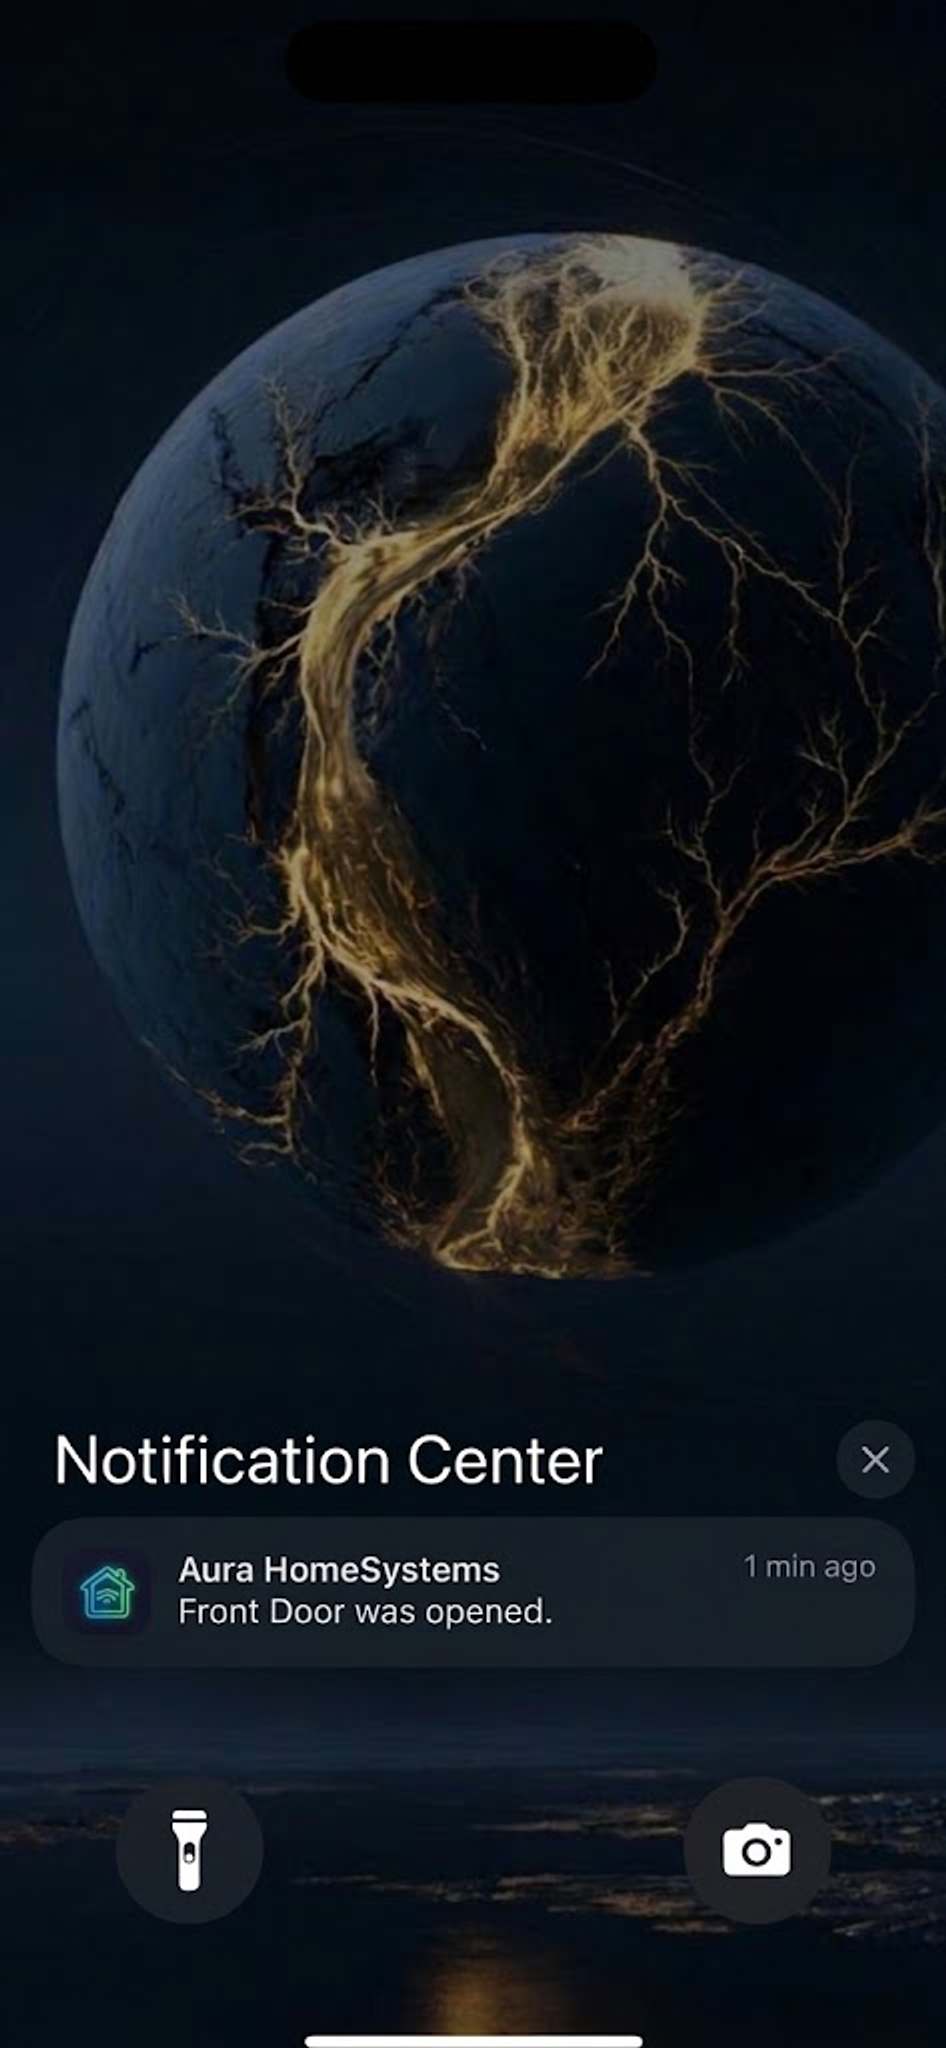
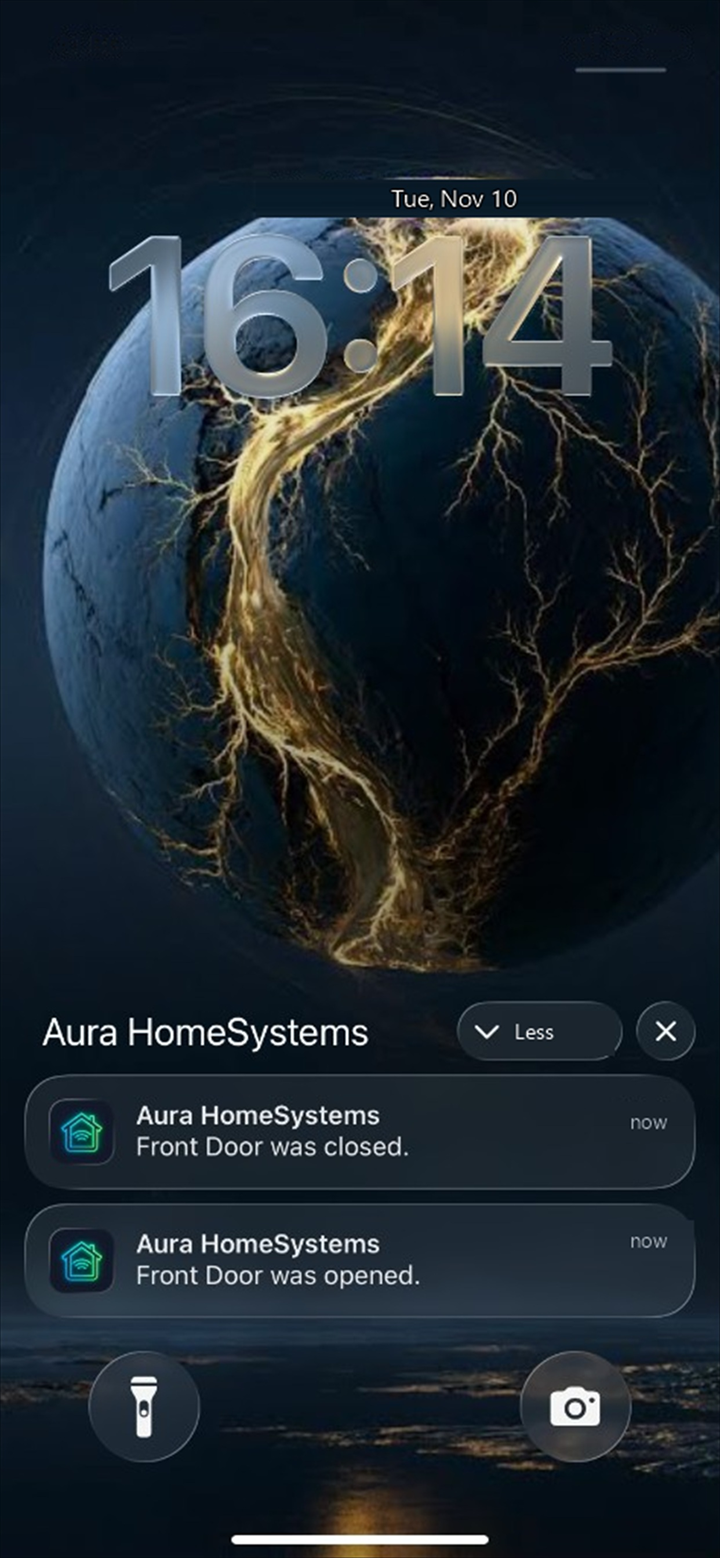
Show the new app screens on the website.

diff --git a/index.html b/index.html
@@ -407,14 +407,14 @@
               <p class="section-subtitle" data-i18n="product.appPreviewLead">The free phone app is where you live with the sensors. You name each door or window, see if it is open or closed, and get a push the moment something opens.</p>
               <div class="app-preview-grid">
                 <figure class="app-shot">
-                  <img src="images/app/push.png" alt="iPhone notification: Front Door was opened" data-i18n-alt="product.appPushAlt" width="1000" height="1106" />
+                  <img src="images/app/push.png" alt="iPhone notification: Front Door was opened" data-i18n-alt="product.appPushAlt" width="720" height="1558" />
                   <figcaption>
                     <strong data-i18n="product.appPushTitle">A push that names the door</strong>
                     <span data-i18n="product.appPushText">When something opens, the phone shows which sensor it was. You do not have to open the app to know.</span>
                   </figcaption>
                 </figure>
                 <figure class="app-shot">
-                  <img src="images/app/sensors.png" alt="Sensor cards showing Front Door and Garage, each closed, with battery and the last update time" data-i18n-alt="product.appSensorsAlt" width="1000" height="1106" />
+                  <img src="images/app/sensors.png" alt="Sensor cards showing Front Door and Garage, each closed, with battery and the last update time" data-i18n-alt="product.appSensorsAlt" width="473" height="1024" />
                   <figcaption>
                     <strong data-i18n="product.appSensorsTitle">Each sensor on its own card</strong>
                     <span data-i18n="product.appSensorsText">Name, icon, battery and Open or Closed. The time is the last report from that sensor.</span>
@@ -428,7 +428,7 @@
                   </figcaption>
                 </figure>
                 <figure class="app-shot">
-                  <img src="images/app/mode.png" alt="Away mode switched on, with the siren enabled and ready" data-i18n-alt="product.appModeAlt" width="1000" height="1106" />
+                  <img src="images/app/mode.png" alt="Home mode, with the siren enabled and ready" data-i18n-alt="product.appModeAlt" width="473" height="1024" />
                   <figcaption>
                     <strong data-i18n="product.appModeTitle">Home, Away and the siren</strong>
                     <span data-i18n="product.appModeText">Away turns monitoring and phone alerts on. Home turns them off. If you have a siren, you enable it or stop it from this same screen.</span>

diff --git a/translations.js b/translations.js
@@ -92,7 +92,7 @@ const translations = {
             appHistoryAlt: "History list of Front Door and Garage openings and closings with the time of each event",
             appModeTitle: "Home, Away and the siren",
             appModeText: "Away turns monitoring and phone alerts on. Home turns them off. If you have a siren, you enable it or stop it from this same screen.",
-            appModeAlt: "Away mode switched on, with the siren enabled and ready",
+            appModeAlt: "Home mode, with the siren enabled and ready",
             appPushTitle: "A push that names the door",
             appPushText: "When something opens, the phone shows which sensor it was. You do not have to open the app to know.",
             appPushAlt: "iPhone notification: Front Door was opened",
@@ -691,7 +691,7 @@ const translations = {
             appHistoryAlt: "Verlauf von Öffnen und Schließen für Haustür und Garage mit Uhrzeit",
             appModeTitle: "Zuhause, Abwesend und die Sirene",
             appModeText: "Abwesend schaltet Überwachung und Handy-Alarme ein. Zuhause schaltet sie aus. Eine Sirene aktivieren oder stoppen Sie auf demselben Bildschirm.",
-            appModeAlt: "Modus Abwesend ist an, die Sirene ist bereit",
+            appModeAlt: "Modus Zuhause, die Sirene ist eingeschaltet und bereit",
             appPushTitle: "Ein Push, der die Tür nennt",
             appPushText: "Wenn sich etwas öffnet, zeigt das Handy welcher Sensor es war. Die App müssen Sie dafür nicht öffnen.",
             appPushAlt: "iPhone-Mitteilung: Die Haustür wurde geöffnet",

diff --git a/style.css b/style.css
@@ -1882,8 +1882,7 @@ main {
     width: 280px;
     max-width: 100%;
     height: auto;
-    aspect-ratio: 1000 / 1106;
-    object-fit: cover;
+    object-fit: contain;
     object-position: center;
     border-radius: 16px;
     background: #0e1524;
